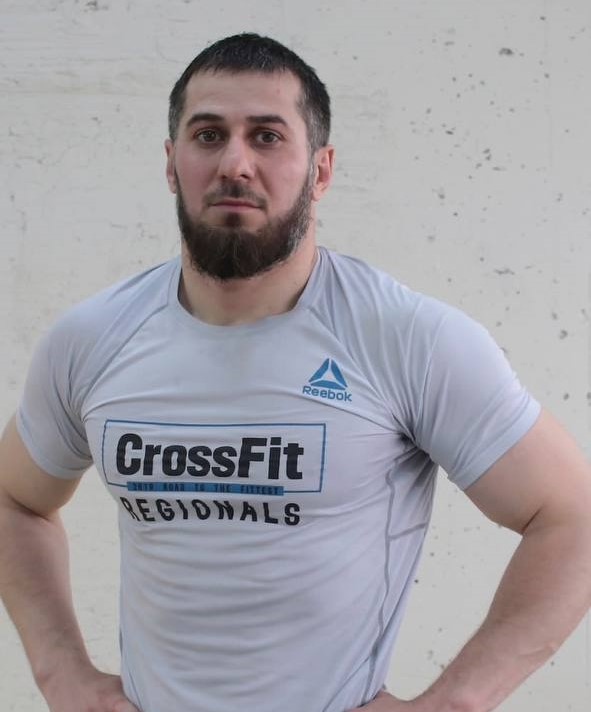
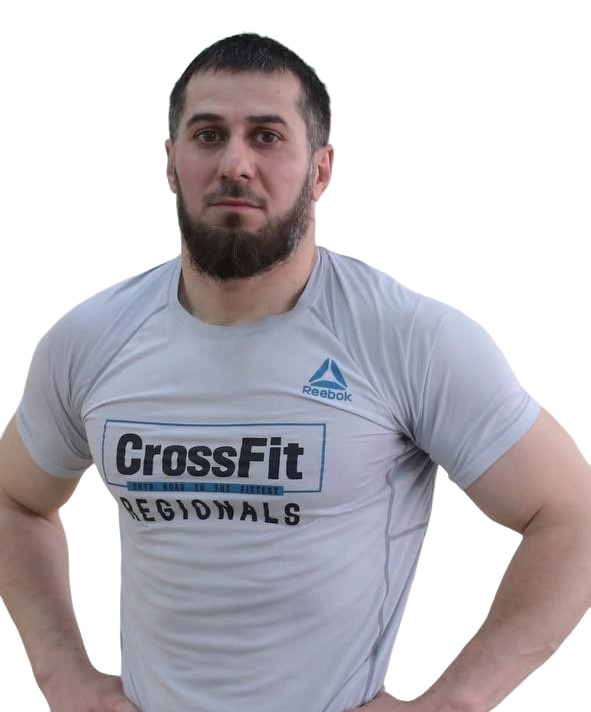
фоны изменены, добавлено начало админки

diff --git a/frontend/src/Components/AdminPanel/Admin.jsx b/frontend/src/Components/AdminPanel/Admin.jsx
@@ -1,0 +1,53 @@
+import React from "react";
+import { useEffect } from "react";
+import { FaUserAlt } from "react-icons/fa";
+import { useDispatch, useSelector } from "react-redux";
+import { fetchUser } from "../../features/usersSlice";
+import styles from "./Admin.module.scss";
+const Admin = () => {
+  const users = useSelector((state) => state.users.users);
+  const dispatch = useDispatch();
+
+  useEffect(() => {
+    dispatch(fetchUser());
+  }, [dispatch]);
+
+  return (
+    <div className={styles.sidebar}>
+      <div className={styles.categoryContent}>
+        <div>
+          <img
+            className={styles.avatar}
+            src={`assets/images/avatars/${users.image}`}
+            alt="avatar"
+          />
+          <span className={styles.role}>{users.role}</span>
+        </div>
+      </div>
+      <div className={styles.navigationWrapper}>
+        <ul className={styles.navigation}>
+          <li>
+            <a href="/profile" target="_blank">
+              <  FaUserAlt className={styles.fafaUser} style={{ color: "black" }} />
+              <span>Просмотр профиля</span>
+            </a>  
+          </li>
+          <li>
+            <a href="/profile" target="_blank">
+              <  FaUserAlt className={styles.fafaUser} style={{ color: "black" }} />
+              <span>Настройки профиля</span>
+            </a>  
+          </li>
+          <li>
+            <a href="/profile" target="_blank">
+              <  FaUserAlt className={styles.fafaUser} style={{ color: "black" }} />
+              <span>Выход</span>
+            </a>  
+          </li>
+        </ul>
+      </div>
+    </div>
+  );
+};
+
+export default Admin;

diff --git a/frontend/src/Components/AdminPanel/Admin.module.scss b/frontend/src/Components/AdminPanel/Admin.module.scss
@@ -1,0 +1,62 @@
+* {
+  box-sizing: border-box;
+}
+
+.sidebar {
+  background-color: #fff;
+  color: #000;
+
+  box-shadow: 0 1px 3px rgb(0 0 0 / 12%), 0 1px 2px rgb(0 0 0 / 24%);
+  @media (min-width: 769px) {
+    display: table-cell;
+    vertical-align: top;
+    width: 260px;
+  }
+  .categoryContent {
+    background: url(../../images/user_bg.png) center center no-repeat;
+    background-repeat: no-repeat;
+    background-position: center center;
+    background-size: cover;
+
+    padding: 21px;
+  }
+  .role {
+    display: block;
+    color: #fff;
+    text-shadow: 0 0 1px rgb(0 0 0 / 50%);
+    white-space: nowrap;
+    text-overflow: ellipsis;
+    overflow: hidden;
+  }
+  .avatar {
+    width: 50px;
+    height: 50px;
+    float: left;
+    margin-right: 5px;
+    margin-top: -15px;
+    object-fit: cover;
+  }
+}
+.navigationWrapper {
+  border-bottom: 1px solid rgba(255, 255, 255, 0.1);
+}
+.navigation {
+  display: flex;
+  flex-direction: column;
+  gap: 30px;
+  margin: 0;
+  padding: 10px 0;
+  list-style: none;
+  a {
+    color: black;
+    text-decoration: none;
+  }
+  span {
+    margin-left: 10%;
+  }
+  .fafaUser {
+    margin-top: -3px;
+    margin-left: 10px;
+  }
+}
+

diff --git a/frontend/src/features/usersSlice.js b/frontend/src/features/usersSlice.js
@@ -6,7 +6,6 @@ const initialState = {
   users: [],
   token: localStorage.getItem("token"),
   id: localStorage.getItem("id"),
-  login: localStorage.getItem("login"),
 };
 
 export const authSignIn = createAsyncThunk(
@@ -24,13 +23,14 @@ export const authSignIn = createAsyncThunk(
         return thunkAPI.rejectWithValue(user.error);
       }
       localStorage.setItem("token", user.token);
-      localStorage.setItem("login", user.login);
+      localStorage.setItem("id", user.id);
       return thunkAPI.fulfillWithValue(user);
     } catch (error) {
       return thunkAPI.rejectWithValue(error.message);
     }
   }
 );
+
 export const authSignUp = createAsyncThunk(
   "auth/signUp",
   async ({ login, password }, thunkAPI) => {
@@ -119,7 +119,7 @@ const usersSlice = createSlice({
       .addCase(fetchUser.fulfilled, (state, action) => {
         state.loading = false;
         state.error = false;
-        action.payload.map((item) => {
+      action.payload.map((item) => {
           if (item._id === localStorage.getItem("id")) {
             state.users = item;
           }

diff --git a/frontend/src/Components/App.jsx b/frontend/src/Components/App.jsx
@@ -10,12 +10,15 @@ import Profile from "./Profile/Profile";
 import Main from "./Main/Main";
 import Massage from "./Massage/Massage";
 import Form from "./Form/Form";
+import Admin from "./AdminPanel/Admin";
 
 function App() {
   return (
     <div className="App">
-      <Header />
+   
+    { window.location.pathname === '/admin' ? null : <Header/>}
       <Routes>
+      <Route path="/admin" element={<Admin />} />
         <Route path="/simulators" element={<Simulators />} />
         <Route path="/" element={<Main />} />
         <Route path="/login" element={<SignIn />} />
@@ -24,7 +27,7 @@ function App() {
         <Route path="/sports_bar" element={<SportsBar />} />
         <Route path="/profile" element={<Profile />} />
         <Route path="/massage" element={<Massage />} />
-        <Route path="/admin/form" element={<Form/>}/>
+        <Route path="/admin/form" element={<Form />} />
       </Routes>
     </div>
   );

diff --git a/frontend/src/Components/Main/Main.jsx b/frontend/src/Components/Main/Main.jsx
@@ -1,4 +1,3 @@
-
 import React from "react";
 import CardAb from "./cardAboniment/CardAb";
 import ContentOne from "./ContentOne/ContentOne";
@@ -6,10 +5,10 @@ import styles from "./Main.module.scss";
 
 const Main = () => {
   return (
-    <div className={styles.Main_Container}>
-     <ContentOne />
-     <CardAb />
-    </div>
+      <div className={styles.Main_Container}>
+        <ContentOne />
+        <CardAb />
+      </div>
   );
 };
 

diff --git a/backend/routes/Users.route.js b/backend/routes/Users.route.js
@@ -4,7 +4,7 @@ const { check } = require("express-validator");
 const router = Router();
 const authMiddleware = require("../middleware/auth.middleware");
 
-router.get("/users", authMiddleware, usersController.getUsers);
+router.get("/", authMiddleware, usersController.getUsers);
 router.post(
   "/registration",
   [

diff --git a/backend/models/User.model.js b/backend/models/User.model.js
@@ -14,6 +14,13 @@ const userSchema = mongoose.Schema({
         type: mongoose.SchemaTypes.ObjectId,
         default: null,
       },
+    role: [{
+        type: String,
+        default: "user",
+    }],
+    image: {
+        type: String,
+    }
 })
 const User = mongoose.model("User", userSchema)
 

diff --git a/frontend/src/Components/Main/Main.module.scss b/frontend/src/Components/Main/Main.module.scss
@@ -9,8 +9,5 @@
     background: url("https://img3.akspic.ru/crops/7/8/9/5/3/135987/135987-shtanga-sportzal-koleso-silovaya_trenirovka-trening-1920x1080.jpg") no-repeat;
     background-attachment: fixed; 
 	background-size: cover;
-
-
-   
 }
 

diff --git a/frontend/src/Components/App.scss b/frontend/src/Components/App.scss
@@ -4,6 +4,5 @@
 * {
   padding: 0;
   margin: 0;
-  box-sizing: border-box;
   font-family: "Roboto", sans-serif;
 }
